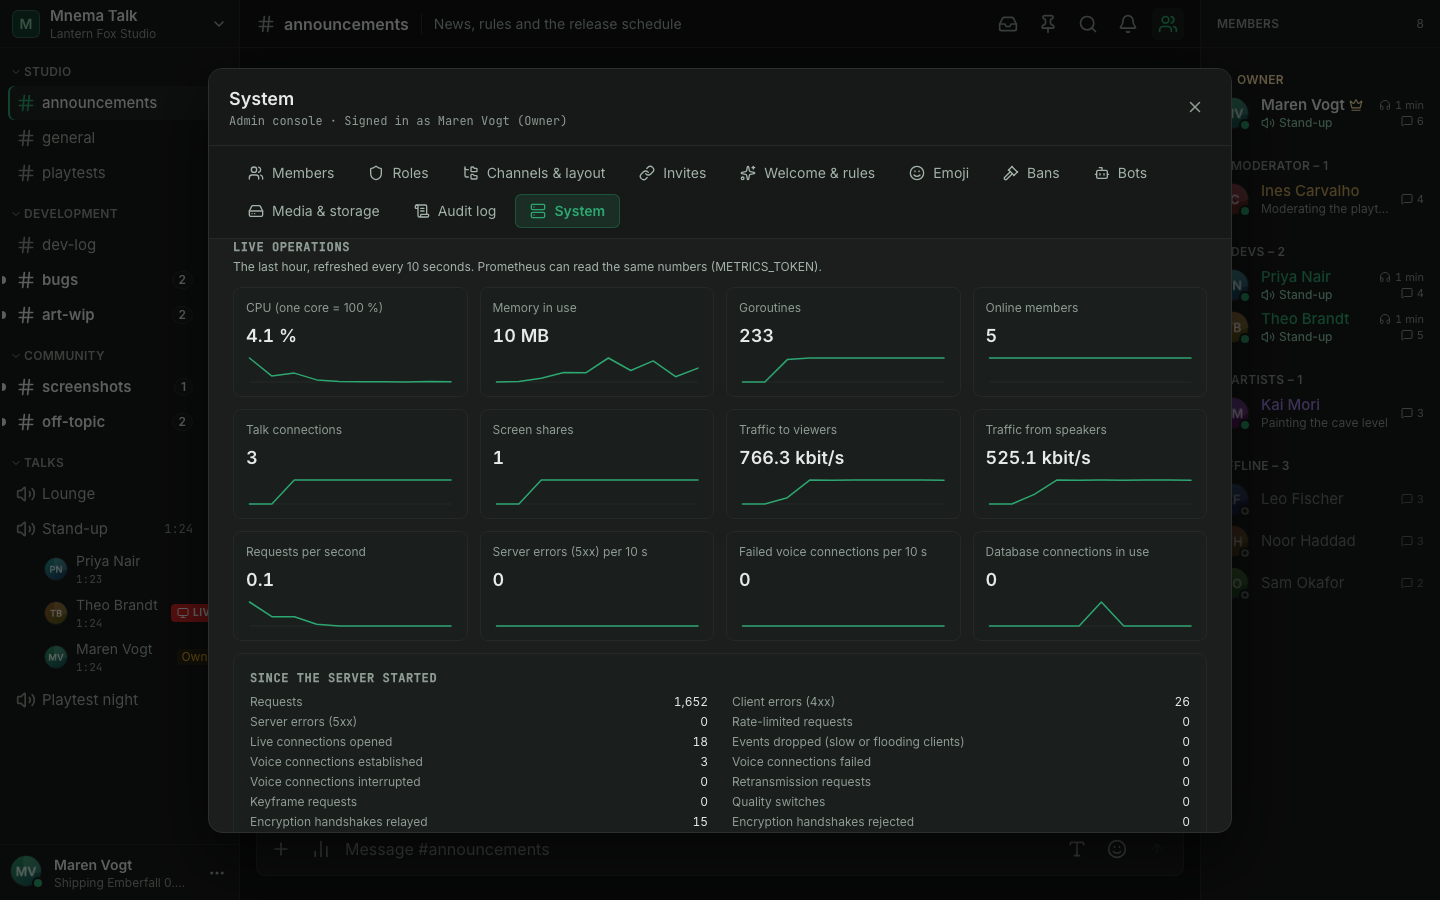
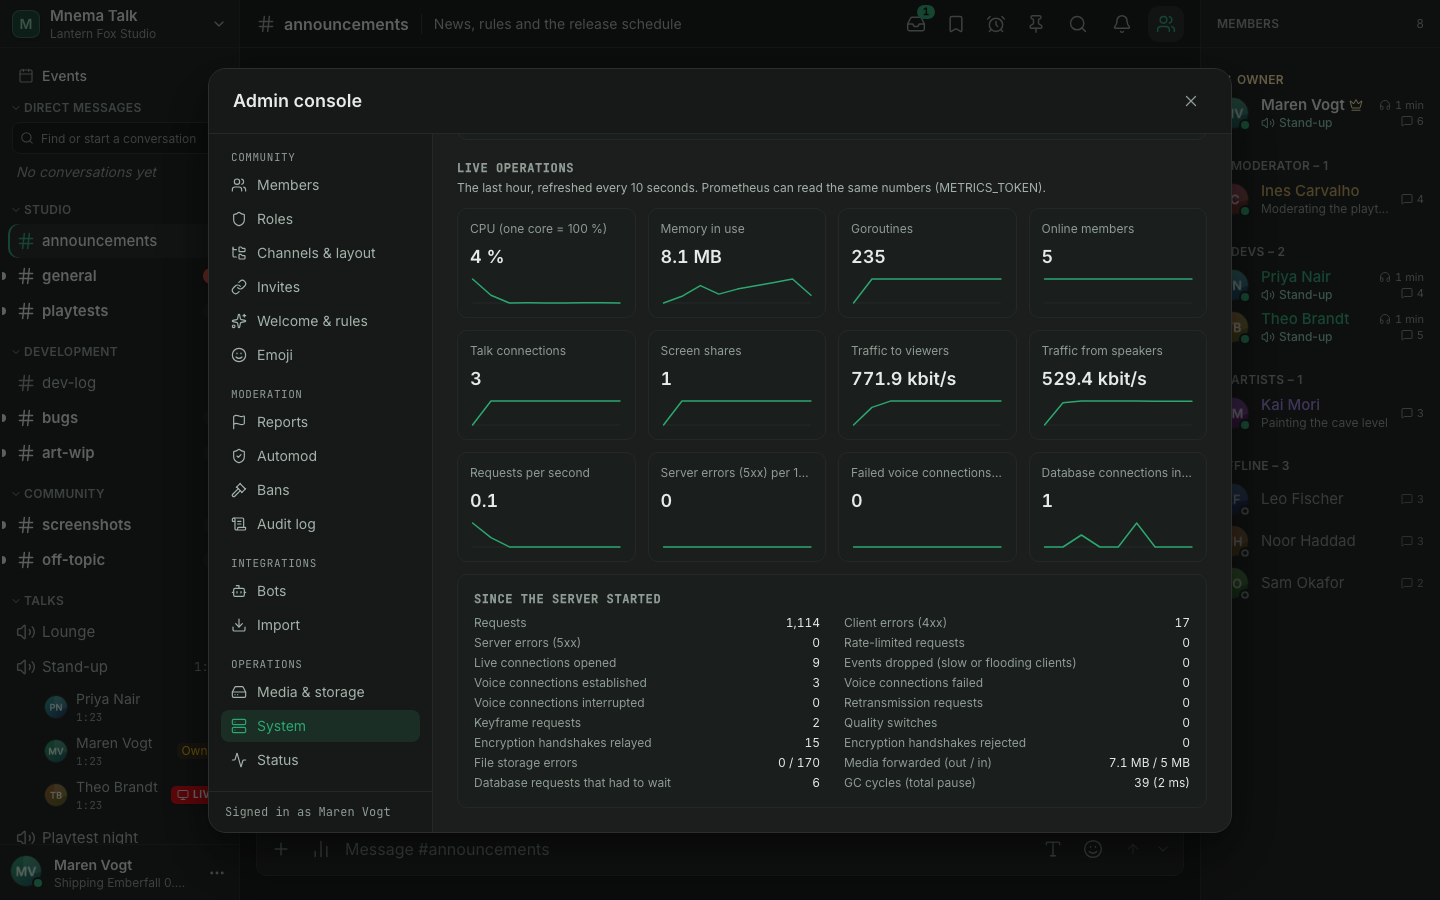
docs: update desktop availability, 1.2 upgrade notes and admin screenshots

diff --git a/README.md b/README.md
@@ -17,7 +17,7 @@ design. It keeps the parts that make a community server useful: roles, private
 channels, webhooks, bots and a call you can join with one click. Invite-only,
 no accounts on someone else's platform.
 
-**[Download the desktop app (Beta, unsigned)](https://github.com/msch128/mnema-talk-desktop/releases/latest)**: Windows, macOS and Linux installers live in their own repository; releases here carry the Docker image and the signed web bundle. Prefer the browser? Nothing to install, see [Quick start](#quick-start) to host it.
+**[Download the desktop app (Beta, unsigned)](https://github.com/msch128/mnema-talk-desktop/releases/latest)**: Windows installer and portable ZIP live in their own repository (macOS and Linux are paused, code kept, no new builds); releases here carry the Docker image and the signed web bundle. Prefer the browser? Nothing to install, see [Quick start](#quick-start) to host it.
 
 [Why Mnema](#why-mnema) · [Features](#features) · [Quick start](#quick-start) ·
 [Desktop (Beta)](#desktop-beta) · [Documentation](#documentation) ·
@@ -355,7 +355,7 @@ proxy settings, TURN and troubleshooting:
 Take a backup before every update (`scripts/backup.sh`; restore with
 `scripts/restore.sh`, which can verify a backup in a disposable container
 first). Migrations run at startup and are forward-only. Per-version notes,
-including the moves from 0.9 to 1.0 and from 1.0 to 1.1, and the rollback procedure are in
+including the move from 1.1 to 1.2 ([1.1.x → 1.2.0](doc/upgrade.md#11x--120)), and the rollback procedure are in
 [doc/upgrade.md](doc/upgrade.md). Admins see new releases in the System tab; an
 optional update button needs the `autoupdate` profile.
 
@@ -384,14 +384,15 @@ The full model, its limits and how to report a vulnerability privately are in
 
 ## Desktop (Beta)
 
-The [desktop client](https://github.com/msch128/mnema-talk-desktop) for Windows,
-macOS and Linux (**Beta**, unsigned) wraps the same web app. Instead of loading code from
+The [desktop client](https://github.com/msch128/mnema-talk-desktop) for Windows
+(**Beta**, unsigned; installer and portable ZIP; macOS and Linux are paused,
+code kept, no new builds) wraps the same web app. Instead of loading code from
 your server it runs a **signed bundle** that it verifies on every start, with
 rollback protection and a security floor, and keeps the session in the OS
 keychain. On Windows it adds a gaming sidepeek and an `Alt+M` overlay for your Talk. The
-browser app remains the primary, fully supported client. The installers are
-not code-signed (no paid certificate), so Windows SmartScreen and macOS
-Gatekeeper warn on first start; the steps are in
+browser app remains the primary, fully supported client. The installer is
+not code-signed (no paid certificate), so Windows SmartScreen warns on first
+start; the steps are in
 [doc/desktop-app.md](doc/desktop-app.md#installing-the-unsigned-beta). Details
 and the threat model: [doc/desktop-trusted-client.md](doc/desktop-trusted-client.md).
 
